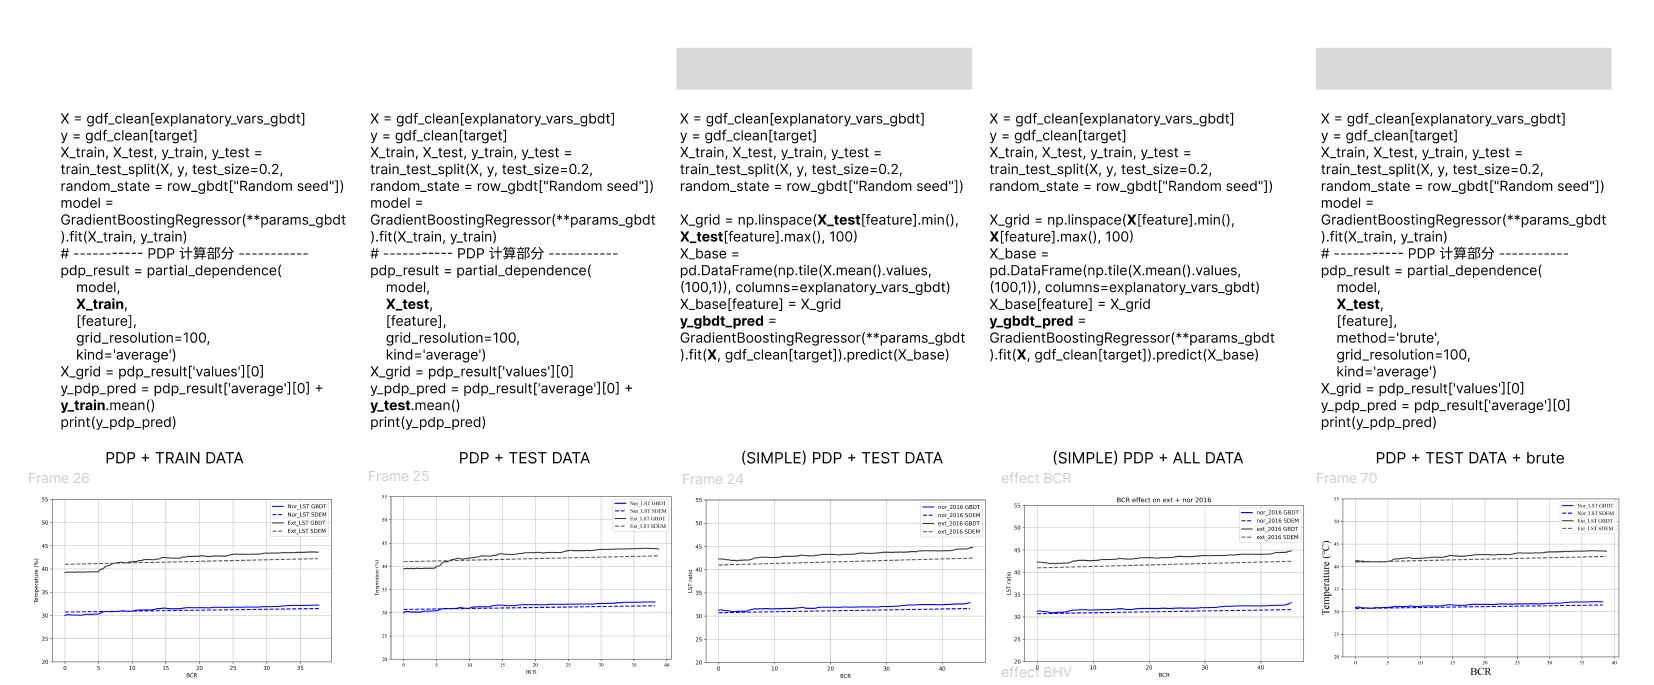
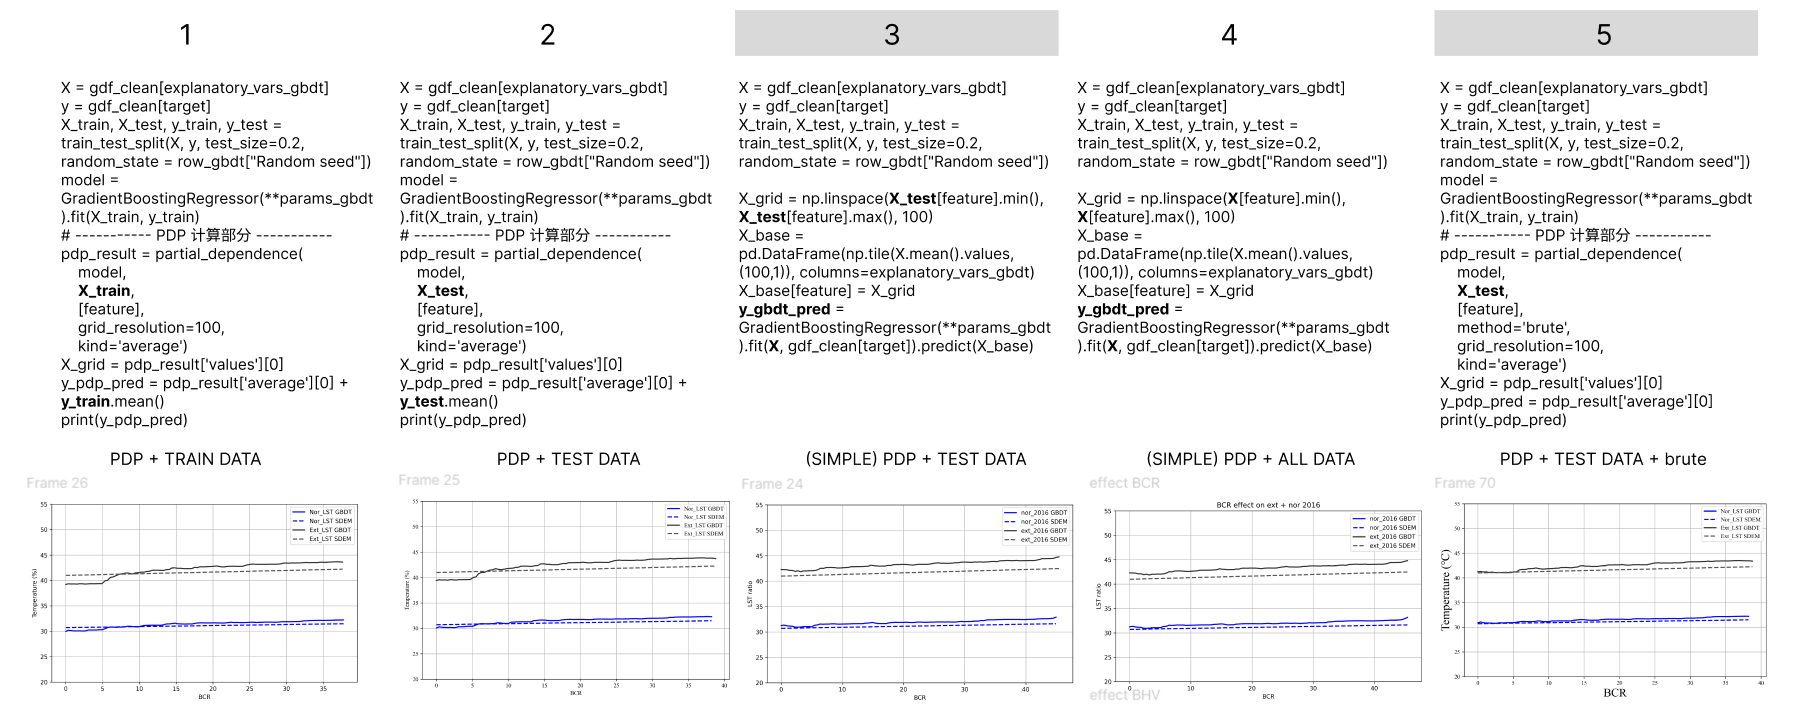
222

diff --git a/README.md b/README.md
@@ -94,17 +94,16 @@ a -> filtered_data = data[data['area'] >= 5]<br>
 b -> [**'무벽건물'** '주택외건물' '일반주택' '연립주택' '공사중건물' '아파트' **'가건물'** '온실']  -->[          '주택외건물' '일반주택' '연립주택' '공사중건물' '아파트'         '온실']<br>
 |[fin.shp](original_data/features/building/final)<-- This data is the one I finally used    |
 
-|final data with  area >= 5 m²|
-|-----------------------------|
+|final data with  area >= 5 m²                            |
+|---------------------------------------------------------|
 |['연립주택' '주택외건물' '아파트' '공사중건물' '온실' '일반주택']|
-|종류|
-|일반주택     271724|
-|주택외건물    238633|
-|연립주택      98280|
-|아파트       24716|
-|공사중건물      1848|
-|온실         1306|
-|Name: count, dtype: int64|
+|종류                                                      |
+|일반주택                                             271724|
+|주택외건물                                           238633|
+|연립주택                                              98280|
+|아파트                                               24716|
+|공사중건물                                             1848|
+|온실                                                  1306|
 
 
 #### 02_NDVI 
@@ -115,17 +114,15 @@ b -> [**'무벽건물'** '주택외건물' '일반주택' '연립주택' '공사
 
 
 #### 03_parks
-| parks   |
-|---------|
-|Area >=100000㎡|
+| parks                                                                                  |
+|----------------------------------------------------------------------------------------|
+|Area >=100000㎡                                                                         |
 |final file I used: [parks.shp](original_data/features/parks/e_park/seoul_large_park.shp)|
 
-|park_1|
-
 #### 04_elevation
-|elevation|
-|---------|
-|file : [elevation.tif](/original_data/features/elevation/seoul_dem.tif)
+|elevation                                                                |
+|-------------------------------------------------------------------------|
+|file : [elevation.tif](/original_data/features/elevation/seoul_dem.tif)  |
 
 
 
@@ -209,7 +206,7 @@ b -> [**'무벽건물'** '주택외건물' '일반주택' '연립주택' '공사
 
 |      | 2016                                                                   | 2023                                           |
 |------|------------------------------------------------------------------------|------------------------------------------------|
-| unit | ![](fig/2016_isolated_grid.png) <br>1308, 1377, 1411, 1471, 1525, 1690 | ![](fig/2023_isolated_grid.png) <br>1392, 1571 |
+| Unit | ![](fig/2016_isolated_grid.png) <br>1308, 1377, 1411, 1471, 1525, 1690 | ![](fig/2023_isolated_grid.png) <br>1392, 1571 |
 
 ### 01 OLS
 
@@ -318,12 +315,11 @@ X-> explanatory\_vars; WX -> explanatory\_vars\_clean
 
 #### 04 model prediction
 
-        y\_trend = (X\_base @ betas).ravel()     # (n\_points,)
-        # 7) 样本拟合值（含 λ）：直接用库的 predy（已考虑 λ）
-        y\_fitted = model.predy.flatten()       # (N,)
-        \*\*\* predy: nx1 array of predicted y values
+y\_trend = (X\_base @ betas).ravel()     # (n\_points,)
+<!-- 7) 样本拟合值（含 λ）：直接用库的 predy（已考虑 λ） -->
+y\_fitted = model.predy.flatten()       # (N,)
+\*\*\* predy: nx1 array of predicted y values
         
-
 ### 07 Residuals Test
 
 |SDM                         |SDEM                         |
@@ -343,19 +339,19 @@ X-> explanatory\_vars; WX -> explanatory\_vars\_clean
 |RNN	      |1.102	    |1.088	        |7.366       |
 
 ### 02 - hyperparameter tuning
-#### fixed hyperparameter
-|Hyperparameter 	|Description	                              |Data range     |Type   |
-|-------------------|---------------------------------------------|---------------|-------|
-|n_estimators       |number of trees.                             |4168           |Integer|
-|min_samples_split  |Minimum number of samples for node splitting.|2              |Integer|
+**fixed hyperparameter**
+|Hyperparameter 	|Description	                              |Data range       |Type   |
+|-------------------|---------------------------------------------|-----------------|-------|
+|n_estimators       |number of trees.                             |4168             |Integer|
+|min_samples_split  |Minimum number of samples for node splitting.|2                |Integer|
 
-#### hyoeroarameter tuning
-|Hyperparameter 	|Description	                            |Data range  	|Type   |
-|-------------------|-------------------------------------------|---------------|-------|
-|learning_rate	    |Step size of each boosting step.        	|(0.002, 0.355) |Real   |
-|subsample	        |Subsample ratio of training instance.   	|[0.545,0.958]	|Real   |
-|max_depth	        |Maximum tree depth.	                    |[5, 13]	    |Integer|
-|max_features	    |Subsample ratio of features for training.	|[0.335,0.916]	|Real   |
+**Hyperparameter tuning**
+|Hyperparameter 	|Description	                              |Data range    	|Type   |
+|-------------------|---------------------------------------------|-----------------|-------|
+|learning_rate	    |Step size of each boosting step.        	  |(0.002, 0.355)   |Real   |
+|subsample	        |Subsample ratio of training instance.   	  |[0.545,0.958]	|Real   |
+|max_depth	        |Maximum tree depth.	                      |[5, 13]	        |Integer|
+|max_features	    |Subsample ratio of features for training.	  |[0.335,0.916]	|Real   |
 
 ### 03 - cv result
 |Workflow                                              |
@@ -367,8 +363,8 @@ X-> explanatory\_vars; WX -> explanatory\_vars\_clean
 |using K-folder cross validation. split into 5 set, and 20 repeated, randsom seed = 0|
 |using the GBDT with the spercific hyperparameters. and for n_iterration = 200, using random search to find out the best hyperparameters.|
 
-result 
-|type   |learning_ rate	|subsample	|max_ depth|	max features|	Seed count|	Mean CV score|Final seed|Final seed CV score|
+**result**
+|Type   |learning_ rate	|subsample	|max_ depth|	max features|	Seed count|	Mean CV score|Final seed|Final seed CV score|
 |-------|---------------|-----------|----------|----------------|-------------|--------------|----------|-------------------|
 |Nor_LST|0.0137	        |0.5634	    |5	       |0.6022 	        |20	          |0.9200        |3184      |0.9200             |
 |Ext_LST|0.0137	        |0.5634	    |5	       |0.6022	        |20		      |0.9486        |9394      |0.9486             |
@@ -378,10 +374,10 @@ result
 
 ### 04 - best hyperparameter
 
-|    |GBDT random search result                   |
-|----|--------------------------------------------|
-|2016| [](excel/final_GBDT_summary_results.xlsx)  |
-|2023|    None                                    |
+|Year|GBDT random search result                                                        |
+|----|---------------------------------------------------------------------------------|
+|2016| [](excel/final_GBDT_summary_results.xlsx)                                       |
+|2023|I use ransom seed = 9394; [](excel/2023%20GBDT_Random_Search_Results_0_9394.xlsx)|
 
 |type   |learning_ rate	|subsample	|max_ depth	|max features	|Final seed	|Final seed CV score	|Final Test score|
 |-------|---------------|-----------|-----------|---------------|-----------|-----------------------|----------------|
@@ -392,6 +388,6 @@ result
 ### 05 - PDP result compared with GBDT and SDEM
 
 ![](fig/111.png)
-↑ This is the final PDP I decide. I finally decide the final method.
+↑ This is the final PDP I decide. I finally decide the method 3.
 
 |predict|![](fig/GBDT_SDEM%20effect.jpg)|
